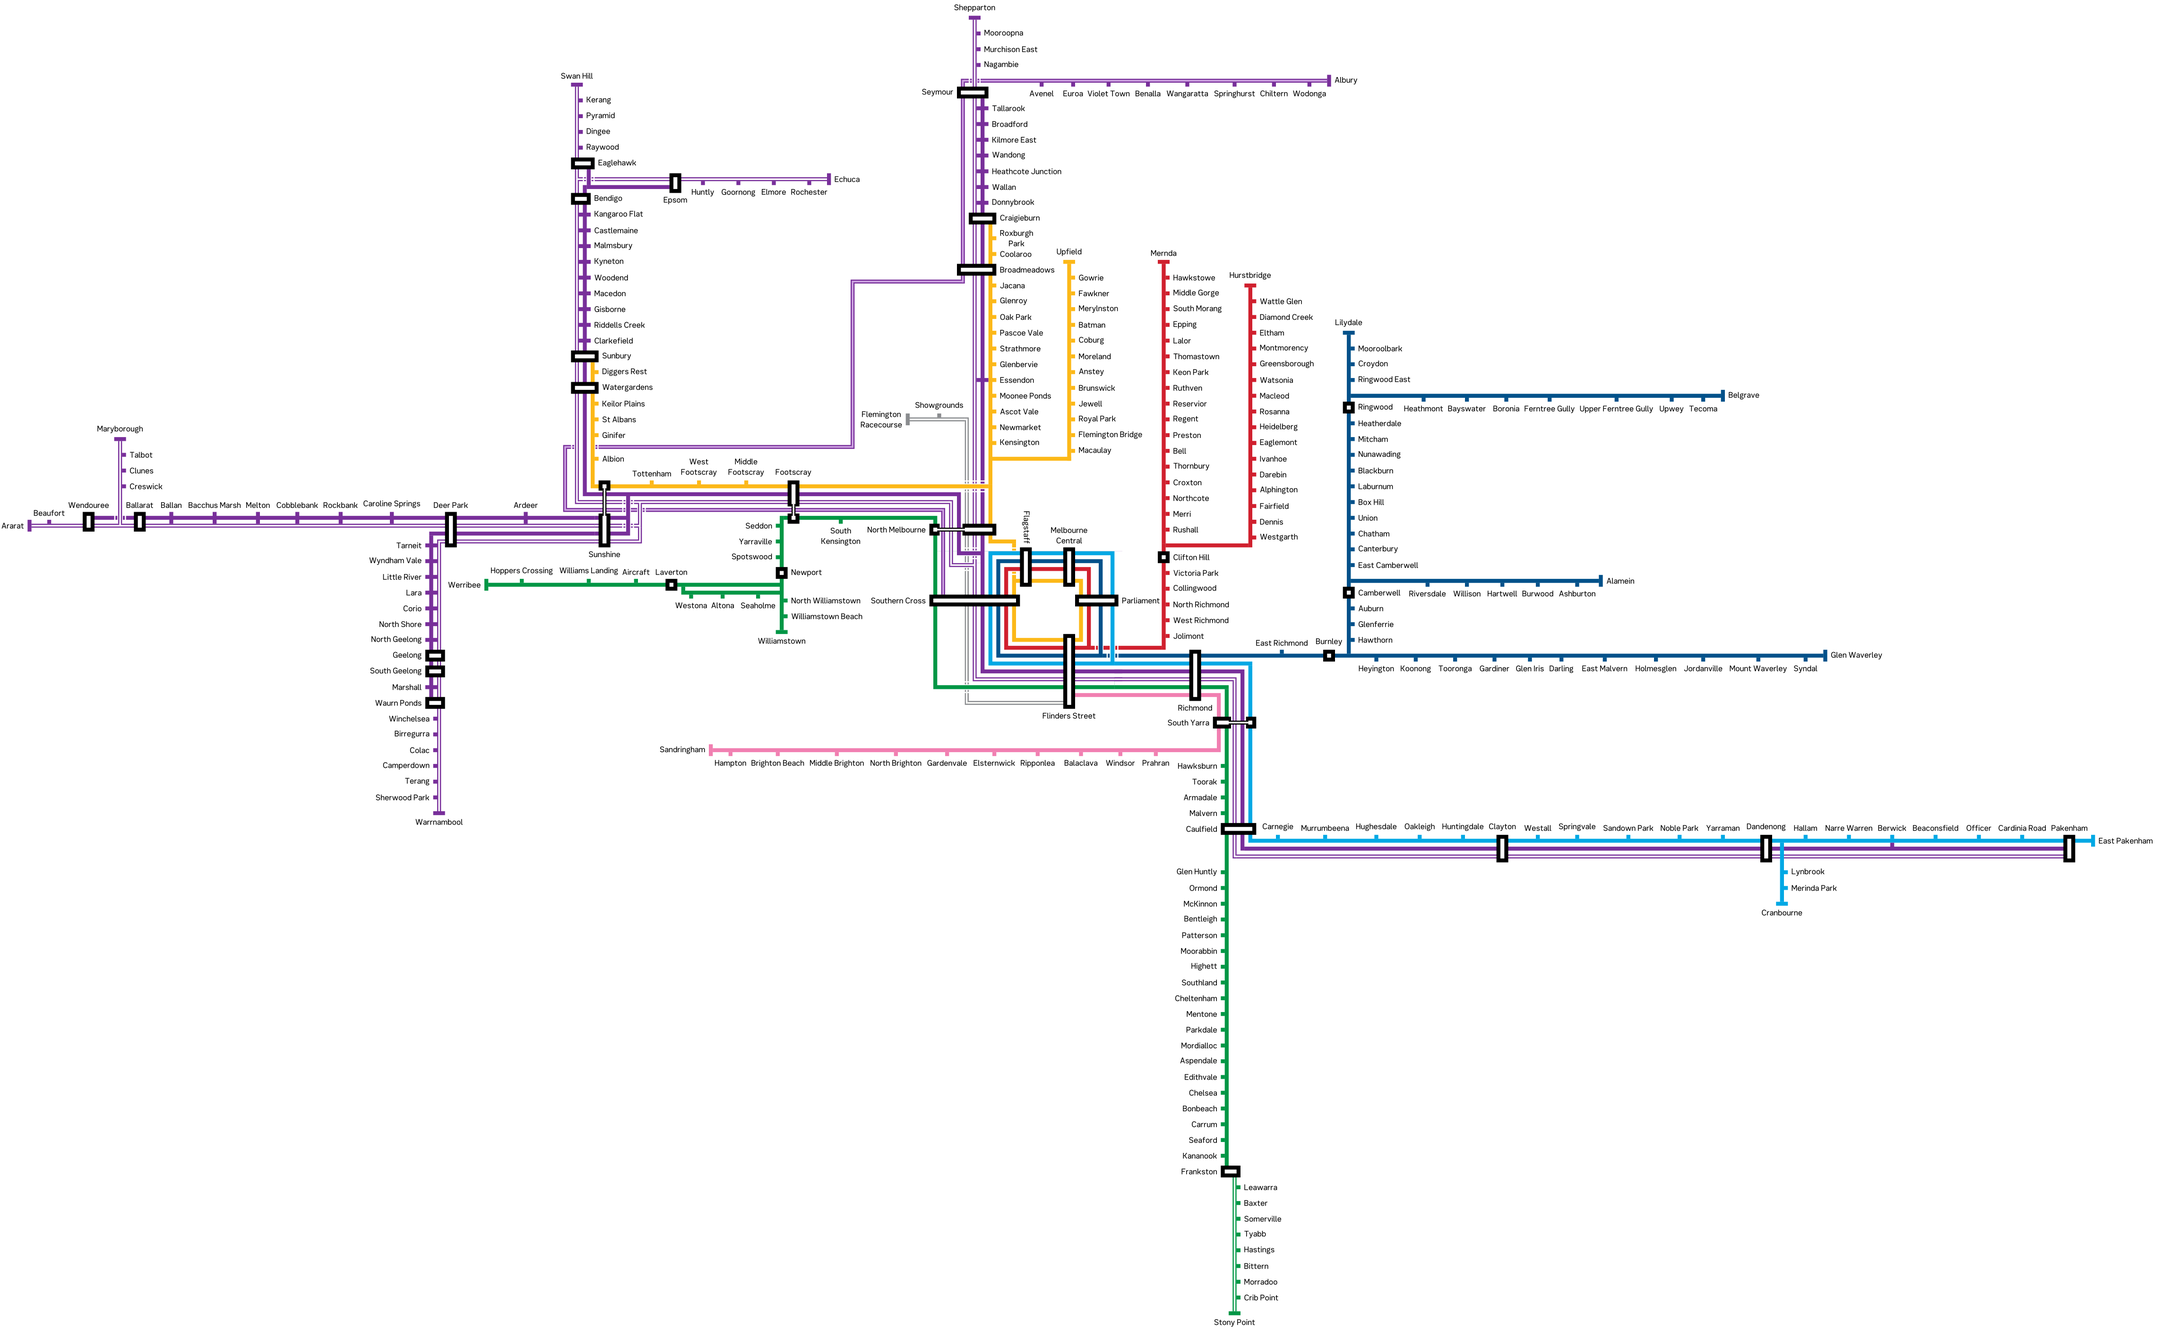
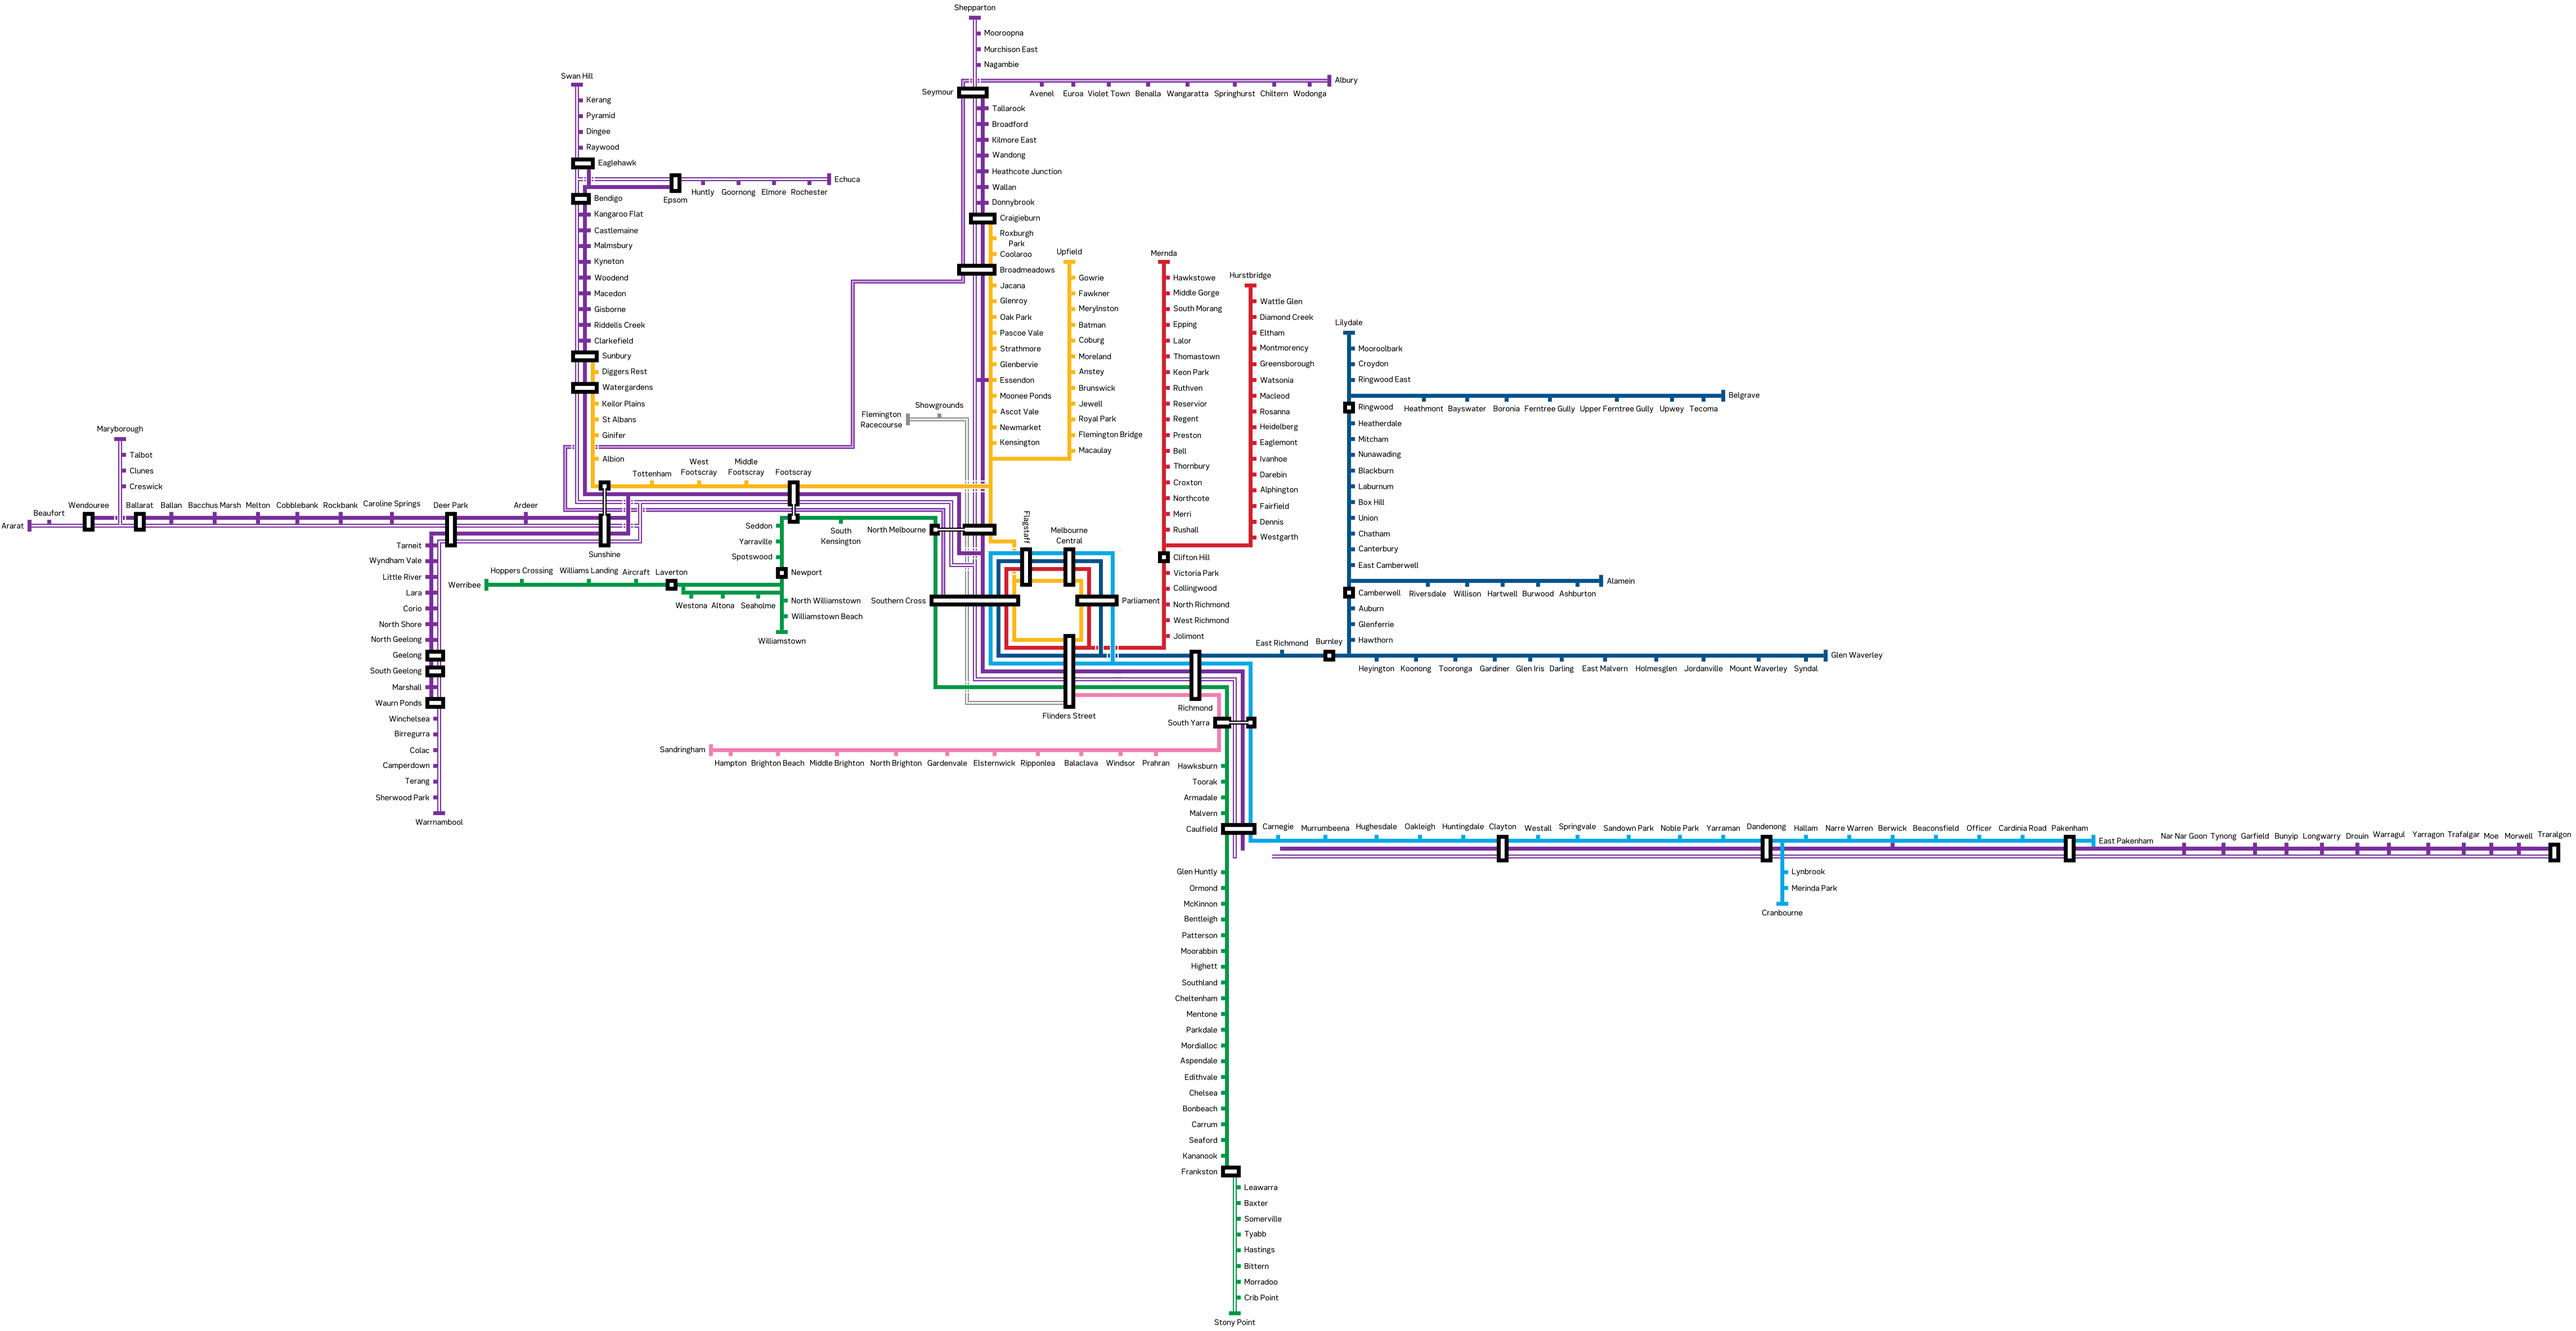
traralgon line

diff --git a/utils/trainlogger/map/mapimage.py b/utils/trainlogger/map/mapimage.py
@@ -132,6 +132,18 @@ class MapImageHandler:
             "Cardinia Road": (14700 + x_offset, 4100 + y_offset, 15400 + x_offset, 4250 + y_offset),
             "Pakenham": (15400 + x_offset, 4050 + y_offset, 15950 + x_offset, 4250 + y_offset),
             "East Pakenham": (16000 + x_offset, 4250 + y_offset, 16750 + x_offset, 4400 + y_offset),
+            "Nar Nar Goon": (16700 + x_offset, 4200 + y_offset, 17350 + x_offset, 4350 + y_offset),
+            "Tynong": (17350 + x_offset, 4200 + y_offset, 17800 + x_offset, 4400 + y_offset),
+            "Garfield": (17800 + x_offset, 4150 + y_offset, 18150 + x_offset, 4400 + y_offset),
+            "Bunyip": (18200 + x_offset, 4200 + y_offset, 18550 + x_offset, 4400 + y_offset),
+            "Longwarry": (18550 + x_offset, 4200 + y_offset, 19100 + x_offset, 4350 + y_offset),
+            "Drouin": (19100 + x_offset, 4150 + y_offset, 19450 + x_offset, 4350 + y_offset),
+            "Warragul": (19400 + x_offset, 4100 + y_offset, 19950 + x_offset, 4350 + y_offset),
+            "Yarragon": (19950 + x_offset, 4150 + y_offset, 20400 + x_offset, 4350 + y_offset),
+            "Trafalgar": (20400 + x_offset, 4200 + y_offset, 20850 + x_offset, 4350 + y_offset),
+            "Moe": (20900 + x_offset, 4250 + y_offset, 21100 + x_offset, 4350 + y_offset),
+            "Morwell": (21150 + x_offset, 4200 + y_offset, 21550 + x_offset, 4400 + y_offset),
+            "Traralgon": (21550 + x_offset, 4200 + y_offset, 22050 + x_offset, 4350 + y_offset),
             "Jolimont": (4277 + x_offset, 1715 + y_offset, 4700 + x_offset, 1837 + y_offset),
             "West Richmond": (4280 + x_offset, 1514 + y_offset, 5010 + x_offset, 1631 + y_offset),
             "North Richmond": (4280 + x_offset, 1321 + y_offset, 5010 + x_offset, 1438 + y_offset),
